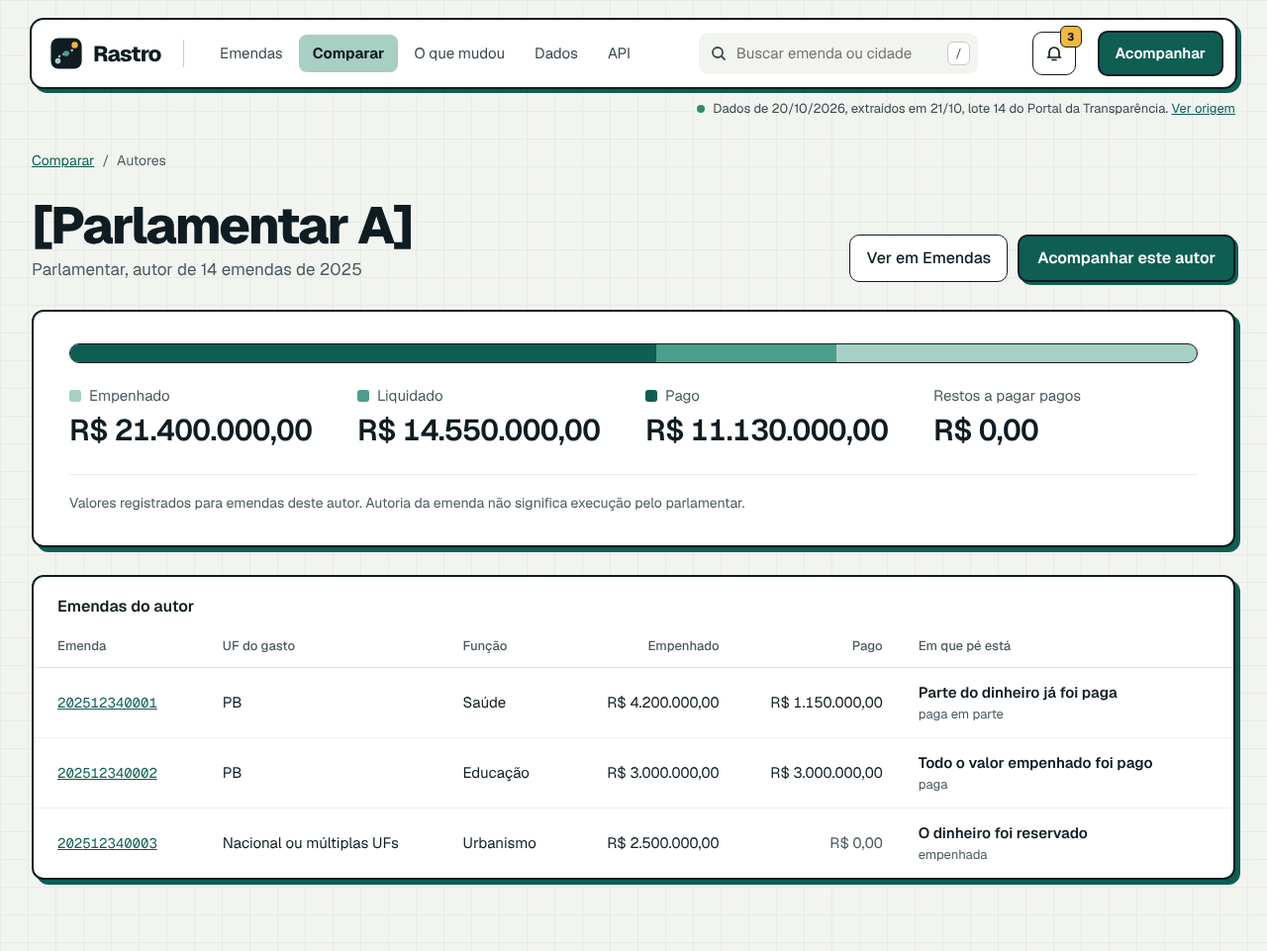
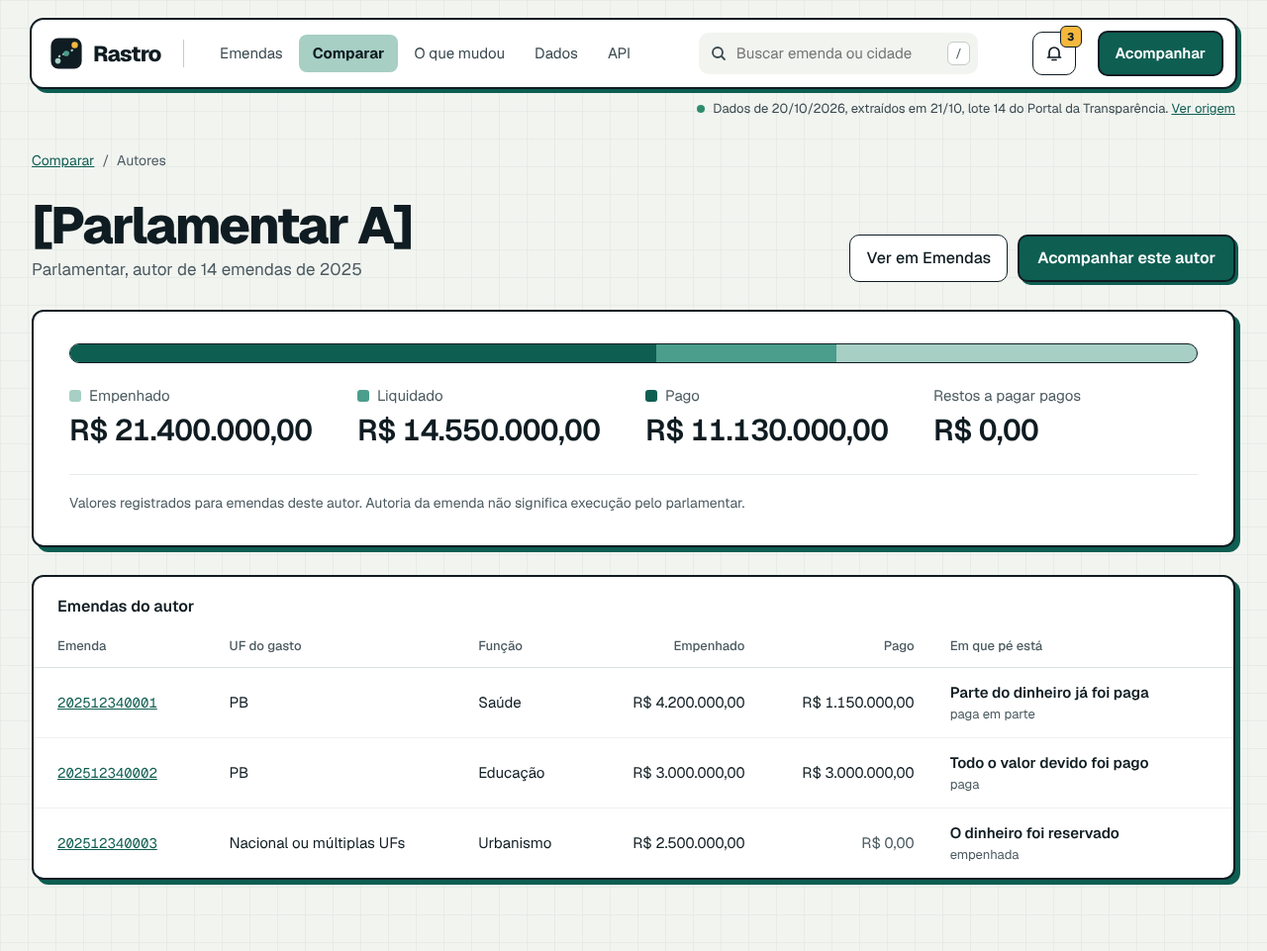
Corrige os achados da revisão independente das mudanças de hoje
- 'paga' passa a dizer 'Todo o valor devido foi pago' (empenhado menos cancelado); ADR-0006 não interpreta a causa da transição
- Números conferidos: 5 545 municípios, R$ 143,3 mi, 37% do total (40% das pagas)
- Assinatura por município só para municípios com gasto previsto; P10 esconde o botão sem gasto
- Contrato 0.3.0; Favorecido expõe municipio_sede e orgao_municipal; nome de campo sem ambiguidade
- REQ-107 a REQ-109 ajustados ao EARS; regra de exibição do termo técnico e do nome do município

Claude-Session: https://claude.ai/code/session_01ETNU5uQUMK4aChQjZRdReK

diff --git a/especificacoes/joao-vitor/arquitetura/requisitos.md b/especificacoes/joao-vitor/arquitetura/requisitos.md
@@ -22,7 +22,7 @@ Convenções usadas no texto:
 | REQ-02 | I | SE uma linha tiver `Código da Emenda` preenchido fora do padrão de 12 dígitos, ENTÃO O SISTEMA DEVE rejeitá-la com o motivo `codigo_invalido` e somá-la em `RejeicaoLote` do lote. | FI-01 §11.3 | `tests/test_cgu.py::test_rejeita_codigo_invalido` | ingestao | O01 |
 | REQ-102 | I | SE uma linha tiver `Código da Emenda` igual a "Sem informação", ENTÃO O SISTEMA DEVE descartá-la com o motivo `codigo_ausente`, contado em `RejeicaoLote` mas fora da taxa do REQ-06, porque o recorte do MVP só inclui emendas com código válido. | FI-01 §10.2; arquivo da CGU (84 857 linhas sem código) | `tests/test_cgu.py::test_codigo_ausente_fora_da_taxa` | ingestao | O01 |
 | REQ-03 | I | SE um valor monetário não estiver no formato publicado pela CGU (dígitos, vírgula e dois decimais, sem separador de milhar, como `250000,00`, com sinal `-` só em `Valor Recebido`), ENTÃO O SISTEMA DEVE rejeitar a linha com o motivo `valor_malformado`. | FI-01 §11.3; arquivo da CGU | `tests/test_cgu.py::test_rejeita_valor_malformado` | ingestao | O01 |
-| REQ-103 | U | O SISTEMA DEVE gravar valores negativos de `Valor Recebido` (estornos publicados pela CGU) como estão, e somá-los com sinal em `soma_valor_recebido_centavos` e na linha agregada de pessoas físicas. | Arquivo da CGU (52 estornos em 2025) | `tests/test_cgu.py::test_estorno_negativo` | ingestao | O01 |
+| REQ-103 | U | O SISTEMA DEVE gravar valores negativos de `Valor Recebido` (estornos publicados pela CGU) como estão, e somá-los com sinal em `soma_valor_recebido_centavos` e na linha agregada de pessoas físicas. | Arquivo da CGU (52 estornos em 2025) | `tests/test_cgu.py::test_estorno_negativo` | ingestao | P10, O01 |
 | REQ-04 | I | SE o pacote da fonte não tiver todas as colunas esperadas pelo contrato de importação, ENTÃO O SISTEMA DEVE marcar o lote como `falhou` com `motivo_falha = formato_alterado` e manter o lote ativo anterior. | FI-01 §10.3 | `tests/test_cgu.py::test_formato_alterado` | ingestao | O01 |
 | REQ-05 | E | QUANDO o operador importar um arquivo cujo `hash_sha256` já pertence a um lote `validado`, `publicado` ou `substituido` da mesma fonte, O SISTEMA DEVE encerrar com código 0 e a mensagem "lote já importado (Lote #n)", sem criar lote nem alterar registros. | AC-2 | `tests/test_store.py::test_reimportacao_nao_duplica` | ingestao | O01 |
 | REQ-06 | I | SE as linhas rejeitadas por `codigo_invalido`, `valor_malformado`, `linha_malformada` ou `emenda_sem_cadastro` passarem de 5% das linhas do recorte (linhas lidas menos `ano_fora_do_recorte` e `codigo_ausente`), ENTÃO O SISTEMA DEVE recusar o lote (estado `recusado`, `motivo_falha = rejeicoes_acima_do_limite`) e manter o lote ativo anterior. | ADR-0001 | `tests/test_store.py::test_recusa_lote_com_muitas_rejeicoes` | ingestao | P09, O01 |
@@ -159,15 +159,15 @@ O brief põe o **município** no centro ("o que foi destinado à cidade dele"), 
 
 ## H · Conferência com o arquivo real da CGU (27/10/2026)
 
-O arquivo oficial de 26/10/2026 mostrou duas coisas que os requisitos anteriores não cobriam. Primeiro, 37% das emendas de 2025 com algum pagamento receberam só parte do empenhado, e o estado `paga` não distinguia isso (ADR-0006, revisão). Segundo, só 474 municípios aparecem como local do gasto, enquanto favorecidos sediados em 5 547 municípios receberam dinheiro de emendas de 2025: a página do município precisava mostrar também o que foi recebido na cidade, sem misturar os dois números (ADR-0010).
+O arquivo oficial de 26/10/2026 mostrou duas coisas que os requisitos anteriores não cobriam. Primeiro, 2 349 emendas de 2025 (37% do total, 40% das que tiveram pagamento) receberam só parte do valor devido, e o estado `paga` não distinguia isso (ADR-0006, revisão). Segundo, só 474 municípios aparecem como local do gasto, enquanto favorecidos sediados em 5 545 municípios receberam dinheiro de emendas de 2025: a página do município precisava mostrar também o que foi recebido na cidade, sem misturar os dois números (ADR-0010).
 
 | ID | Molde | Requisito | Origem | Verificação | Módulo | Telas |
 | :-- | :-: | :-- | :-- | :-- | :-- | :-- |
 | REQ-105 | U | O SISTEMA DEVE derivar o `estado_execucao` de cada emenda, em cada lote, assim: `paga` quando `pago` + `rap_pago` > 0 e ≥ `empenhado` − `rap_cancelado`; `paga_em_parte` quando `pago` + `rap_pago` > 0 e menor que esse valor; `liquidada` quando não há pagamento e `liquidado` > 0; `empenhada` quando só `empenhado` > 0; `sem_execucao` nos demais casos. | ADR-0006; arquivo da CGU | `tests/test_estado.py::test_cinco_estados` | nucleo | P10, P11 |
 | REQ-106 | E | QUANDO uma emenda presente nos dois lotes tiver no lote novo um `estado_execucao` diferente do que tinha no lote ativo anterior, O SISTEMA DEVE gravar uma `MudancaLote` com `tipo = estado_alterado`, `estado_antes` e `estado_depois`. | ADR-0006 | `tests/test_mudancas.py::test_estado_alterado` | nucleo | P08 |
-| REQ-107 | E | QUANDO o importador ler uma linha do arquivo por favorecido com "UF Favorecido" igual à sigla de uma UF e "Município Favorecido" diferente de "Sem informação", O SISTEMA DEVE gravar `Favorecido.municipio_sede` com o identificador derivado do nome pela regra do REQ-66 (`JOÃO PESSOA` → `joao-pessoa`). | ADR-0010; arquivo da CGU | `tests/test_cgu.py::test_municipio_sede` | ingestao | P10 |
-| REQ-108 | I | SE "UF Favorecido" não for a sigla de uma UF (o arquivo traz `-1`) ou "Município Favorecido" for "Sem informação", ENTÃO O SISTEMA DEVE gravar `Favorecido.municipio_sede` nulo, sem rejeitar a linha. (divide REQ-107) | Arquivo da CGU | `tests/test_cgu.py::test_sede_desconhecida` | ingestao | — |
-| REQ-109 | U | O SISTEMA DEVE marcar `Favorecido.orgao_municipal` quando a "Natureza Jurídica" for "Município" ou terminar em "Municipal" (ex. "Fundo Público da Administração Direta Municipal", "Autarquia Municipal"). | ADR-0010; arquivo da CGU | `tests/test_cgu.py::test_orgao_municipal` | ingestao | P10 |
+| REQ-107 | E | QUANDO o importador ler uma linha do arquivo por favorecido de um favorecido que não seja "Pessoa Fisica" (REQ-25), com "UF Favorecido" igual à sigla de uma UF e "Município Favorecido" diferente de "Sem informação", O SISTEMA DEVE gravar `Favorecido.municipio_sede` com o identificador derivado do nome pela regra do REQ-66 (`JOÃO PESSOA` → `joao-pessoa`). | ADR-0010; arquivo da CGU | `tests/test_cgu.py::test_municipio_sede` | ingestao | P10 |
+| REQ-108 | I | SE "UF Favorecido" não for a sigla de uma UF (o arquivo traz `-1`) ou "Município Favorecido" for "Sem informação", ENTÃO O SISTEMA DEVE gravar `Favorecido.municipio_sede` nulo (a linha continua aceita). (divide REQ-107) | Arquivo da CGU | `tests/test_cgu.py::test_sede_desconhecida` | ingestao | — |
+| REQ-109 | E | QUANDO o importador gravar um `Favorecido` cuja "Natureza Jurídica" seja "Município" ou termine em "Municipal" (ex. "Fundo Público da Administração Direta Municipal", "Autarquia Municipal"), O SISTEMA DEVE gravar `Favorecido.orgao_municipal` = 1 (o padrão é 0). | ADR-0010; arquivo da CGU | `tests/test_cgu.py::test_orgao_municipal` | ingestao | P10 |
 | REQ-110 | E | QUANDO o cliente pedir `obter_municipio`, O SISTEMA DEVE devolver em `recebido_na_cidade` a soma de `RegistroFavorecido.valor_recebido_centavos` do lote ativo de favorecidos com `uf` e `municipio_sede` iguais aos da rota, a parte dessa soma recebida por favorecidos com `orgao_municipal`, a quantidade de emendas distintas e a de favorecidos distintos. | ADR-0010 | `tests/test_api.py::test_recebido_na_cidade` | consulta | P10 |
 | REQ-111 | U | O SISTEMA NÃO DEVE somar `recebido_na_cidade` aos valores das emendas com gasto previsto no município, nem exibir os dois num mesmo total, em nenhuma tela ou resposta. (divide REQ-110) | ADR-0010; REQ-21 | `tests/test_api.py::test_recebido_separado` · `e2e/municipio.spec.ts::blocos_separados` | consulta | P10 |
 | REQ-112 | U | O SISTEMA DEVE incluir em `OpcoesFiltro.municipios` todo município que, no lote ativo, seja local do gasto de alguma emenda (`Emenda.municipio_gasto`) ou sede de algum favorecido (`Favorecido.municipio_sede`), com a quantidade de emendas com gasto previsto nele (`quantidade_emendas_gasto`, que pode ser zero). | ADR-0010 | `tests/test_api.py::test_catalogo_de_municipios` | consulta | P01, P02, P10, S01 |

diff --git a/especificacoes/joao-vitor/telas/P10-municipio.md b/especificacoes/joao-vitor/telas/P10-municipio.md
@@ -21,11 +21,11 @@
 
     São cinco linhas, de `sem_execucao` a `paga` (REQ-105). A trilha da identidade visual mostra a proporção de emendas em cada estado, sem valores somados.
   - Valores por etapa, em cartões separados e sem total (`MunicipioDetalhe.valores[]`): `empenhado`, `liquidado`, `pago`, cada um com o rótulo e o link "o que é?".
-  - Destaque para o gestor: "N emendas com valor empenhado ainda não pago" (`MunicipioDetalhe.quantidade_pendentes`, o recorte do REQ-68: as empenhadas, as liquidadas e as pagas em parte), com o botão "Ver as pendentes".
+  - Destaque para o gestor: "N emendas com valor empenhado ainda não pago" (`MunicipioDetalhe.quantidade_pendentes`, o recorte do REQ-68: `pago` + `rap_pago` menor que `empenhado` − `rap_cancelado`; na prática, as empenhadas, as liquidadas e as pagas em parte), com o botão "Ver as pendentes".
   - Lista das emendas do município (`listar_emendas?uf_gasto=&municipio_gasto=&ordenar=codigo&por_pagina=10`): `Emenda.codigo`, `Autor.nome`, `Emenda.funcao_nome`, o estado (`EmendaResumo.estado_texto` e `estado_execucao`) e os valores por etapa.
   - Marca "Tradução v`MunicipioDetalhe.traducao_versao`" com link para P11.
   - Bloco separado "Recebido por favorecidos sediados em <cidade>", com a etiqueta "Outra conta · não se soma às emendas acima" (`MunicipioDetalhe.recebido_na_cidade`, REQ-110, ADR-0010):
-    - "Recebido na cidade" (`valor_recebido_centavos`), com "de N emendas, por M favorecidos" (`quantidade_emendas`, `quantidade_favorecidos`);
+    - "Recebido na cidade" (`valor_recebido_centavos`), com "de N emendas, por M favorecidos" (`quantidade_emendas_com_recebimento`, `quantidade_favorecidos`); um total negativo, possível quando estornos superam os recebimentos (REQ-103), aparece com o sinal de menos e a nota "estornos maiores que os recebimentos";
     - "Desse valor, para a prefeitura e órgãos municipais" (`orgaos_municipais_centavos`);
     - a explicação "Pagamentos de emendas de 2025 a prefeitura, fundos, entidades e empresas com sede na cidade, segundo o arquivo por favorecido da CGU. Inclui emendas de várias cidades, da UF e nacionais." e a nota "Uma empresa sediada aqui pode ter recebido por uma obra em outra cidade. Pessoas físicas não entram nesta conta."
   - Nota fixa: "Gasto previsto: local de aplicação do recurso, segundo a CGU. Emendas para vários municípios, para a UF inteira ou nacionais não aparecem na lista; veja a UF em Emendas." e "Pagamento registrado não comprova a aplicação final."
@@ -39,7 +39,7 @@
   - "Ver as pendentes" → P02 com `?uf_gasto=PB&municipio_gasto=joao-pessoa&pendentes=true` (`listar_emendas`).
   - "Ver as N emendas" → P02 com `?uf_gasto=PB&municipio_gasto=joao-pessoa` (`listar_emendas`).
   - Emenda da lista → P03 (`obter_emenda`).
-  - "Acompanhar este município" → S01 (`listar_opcoes_filtro`) com `filtro_uf_gasto`, `filtro_municipio_gasto` e `condicao = mudanca_estado` pré-preenchidos.
+  - "Acompanhar este município" → S01 (`listar_opcoes_filtro`) com `filtro_uf_gasto`, `filtro_municipio_gasto` e `condicao = mudanca_estado` pré-preenchidos. O botão só aparece quando `MunicipioDetalhe.quantidade_emendas` > 0, porque a assinatura olha só o local do gasto (ADR-0010).
   - "Tradução v`traducao_versao`" → P11 (`listar_traducoes`).
   - "Escolher outra cidade" (estado vazio) → P01 (`obter_status`).
   - Faixa de proveniência → P09 (`listar_lotes`).
@@ -47,7 +47,7 @@
   - "Baixar CSV das emendas" → gera, no navegador, um CSV dos itens já carregados, com colunas de proveniência e de tradução → ação local · sem chamada à API (REQ-74).
 - **Estados:**
   - **carregando:** esqueleto dos estados, dos cartões e da lista; o título com o nome da rota já aparece (REQ-44).
-  - **vazio:** município fora de `OpcoesFiltro.municipios` (404 `nao_encontrado` de `obter_municipio`) → "Nenhuma emenda de 2025 com gasto previsto ou recebimento em <cidade> (UF) nos dados de dd/mm/aaaa", com os links "Ver emendas da UF" (P02) e "Escolher outra cidade" (P01) (REQ-55, REQ-45). Município só com recebimentos (`quantidade_emendas` = 0, caso de 91% dos municípios no arquivo conferido) → no lugar dos estados, dos cartões e da lista, o aviso "Nenhuma emenda de 2025 tem esta cidade como local de aplicação. As emendas que chegaram aqui foram para várias cidades, para a UF ou são nacionais.", com "Ver emendas da UF" (P02); o bloco de recebidos aparece logo abaixo (REQ-112, ADR-0010). Lista de pendentes vazia → "Nenhuma emenda empenhada e ainda não paga nesta cidade" (REQ-45).
+  - **vazio:** município fora de `OpcoesFiltro.municipios` (404 `nao_encontrado` de `obter_municipio`) → "Nenhuma emenda de 2025 com gasto previsto ou recebimento em <cidade> (UF) nos dados de dd/mm/aaaa", com os links "Ver emendas da UF" (P02) e "Escolher outra cidade" (P01) (REQ-55, REQ-45). Município só com recebimentos (`MunicipioDetalhe.quantidade_emendas` = 0, caso de 91% dos municípios no arquivo conferido) → o título diz "Nenhuma emenda de 2025 com gasto previsto nesta cidade"; no lugar dos estados, do destaque do gestor, dos cartões e da lista, e sem o botão "Acompanhar este município", o aviso "Nenhuma emenda de 2025 tem esta cidade como local de aplicação. As emendas que chegaram aqui foram para várias cidades, para a UF ou são nacionais.", com "Ver emendas da UF" (P02); o bloco de recebidos aparece logo abaixo (REQ-112, ADR-0010). Lista de pendentes vazia → "Nenhuma emenda empenhada e ainda não paga nesta cidade" (REQ-45).
   - **erro:** 422 `parametro_invalido` (UF ou identificador de município fora do formato na URL) → "Endereço de cidade inválido", com "Escolher cidade" (REQ-72); 5xx → `X-Request-Id` e "Tentar de novo" (REQ-46).
   - **sucesso:** estados com texto simples, valores por etapa, pendentes, lista e bloco de recebidos (REQ-67, REQ-68, REQ-69, REQ-110).
   - **offline:** "Sem conexão"; nenhum valor anterior exibido como atual (REQ-47).

diff --git a/especificacoes/joao-vitor/arquitetura/adr/0010-mostrar-no-municipio-o-gasto-previsto-e-o-recebido-sem-somar.md b/especificacoes/joao-vitor/arquitetura/adr/0010-mostrar-no-municipio-o-gasto-previsto-e-o-recebido-sem-somar.md
@@ -11,8 +11,8 @@
 - A conferência com o arquivo real da CGU (dados de 26/10/2026, emendas de 2025) mostrou que essa escolha, sozinha, deixa a página vazia para quase todo o país:
   - só 759 das 6 310 emendas trazem um município como local do gasto; as demais são de várias cidades ("Múltiplo"), da UF inteira ou nacionais;
   - por isso, só **474 municípios** aparecem como local do gasto;
-  - favorecidos sediados em **5 547 municípios** receberam dinheiro dessas emendas (arquivo por favorecido, colunas "UF Favorecido" e "Município Favorecido");
-  - em João Pessoa, 17 emendas (R$ 14,2 milhões empenhados) têm a cidade como local do gasto, mas 84 emendas pagaram R$ 143,4 milhões a 53 favorecidos sediados nela (sem contar pessoas físicas), dos quais R$ 37,7 milhões, de 26 emendas, a órgãos municipais (prefeitura e fundos municipais).
+  - favorecidos sediados em **5 545 municípios** receberam dinheiro dessas emendas (arquivo por favorecido, colunas "UF Favorecido" e "Município Favorecido");
+  - em João Pessoa, 17 emendas (R$ 14,2 milhões empenhados) têm a cidade como local do gasto, mas 84 emendas pagaram R$ 143,3 milhões a 53 favorecidos sediados nela (sem contar pessoas físicas), dos quais R$ 37,7 milhões, de 26 emendas, a órgãos municipais (prefeitura e fundos municipais).
 - Os nomes de município dos dois arquivos coincidem: os 474 municípios do local do gasto aparecem, com a mesma grafia e a mesma sigla de UF, no arquivo por favorecido.
 
 ## Opções consideradas
@@ -22,7 +22,7 @@
 2. **Somar o recebido pelos favorecidos da cidade ao gasto previsto.**
    - Prós: um número só. Contras: mistura duas grandezas (valor da emenda por etapa e valor recebido por favorecido, que já são distintas na P03 e na P05), conta duas vezes a mesma emenda e atribui à cidade o pagamento a uma empresa sediada nela por uma obra feita em outro lugar. **Descartada** porque fere o REQ-21 e o REQ-77.
 3. **Dois blocos separados e rotulados:** "Emendas com gasto previsto nesta cidade" (local do gasto, como antes) e "Recebido por favorecidos sediados nesta cidade" (arquivo por favorecido), com a parte recebida por órgãos municipais em destaque e sem total entre os dois.
-   - Prós: a página existe para os 5 547 municípios; cada número diz de onde vem. Contras: dois números que o morador precisa entender como distintos; mais uma coluna derivada na importação.
+   - Prós: a página existe para os 5 545 municípios; cada número diz de onde vem. Contras: dois números que o morador precisa entender como distintos; mais uma coluna derivada na importação.
 
 ## Decisão
 
@@ -31,7 +31,9 @@ Opção 3, porque é a única que mostra o que chegou à cidade sem afirmar onde
 - O favorecido ganha `municipio_sede`, derivado de "Município Favorecido" pela mesma regra de `Emenda.municipio_gasto` (REQ-107), e `orgao_municipal`, derivado da "Natureza Jurídica" (REQ-109). Sem UF válida ou com "Sem informação", a sede fica nula (REQ-108).
 - O catálogo de municípios (`OpcoesFiltro.municipios`) passa a ser a união do local do gasto e da sede dos favorecidos, com `quantidade_emendas_gasto` em cada item (REQ-112). O 404 de `obter_municipio` fica só para município fora desse catálogo (REQ-55).
 - `obter_municipio` devolve `recebido_na_cidade` ao lado dos valores do gasto previsto (REQ-110), e nenhuma tela ou resposta soma os dois (REQ-111).
-- O identificador continua `municipio_gasto` na rota e nos filtros, para não mudar o contrato: é o mesmo texto para os dois usos (`joao-pessoa`).
+- O identificador continua `municipio_gasto` na rota e nos filtros, para não mudar a rota: é o mesmo texto para os dois usos (`joao-pessoa`).
+- O contrato HTTP sobe de 0.2.0 para 0.3.0: há campos obrigatórios novos (`recebido_na_cidade`, `quantidade_emendas_gasto`) e um valor novo no enum de estado (ADR-0006).
+- Assinaturas por município só aceitam municípios com gasto previsto (`quantidade_emendas_gasto` > 0), e a P10 só oferece "Acompanhar este município" nesse caso, porque o filtro olha o local do gasto.
 - Pessoas físicas ficam fora do recebido na cidade, porque o agregado delas não guarda a cidade (ADR-0007). No arquivo conferido, elas somam 0,05% do valor recebido.
 
 ## Consequências
@@ -39,5 +41,5 @@ Opção 3, porque é a única que mostra o que chegou à cidade sem afirmar onde
 - **(+)** A P10 deixa de ser vazia para 91% dos municípios, e o gestor vê quanto a prefeitura e os fundos municipais receberam.
 - **(+)** O REQ-21 continua valendo: o local do gasto nunca vem do favorecido; o favorecido só alimenta o bloco próprio.
 - **(−)** O recebido na cidade inclui pagamentos a empresas sediadas ali por obras feitas em outros municípios. O rótulo e a nota da P10 dizem isso, e o número nunca é chamado de "gasto na cidade".
-- **(−)** As assinaturas por município (`filtro_municipio_gasto`) continuam olhando só o local do gasto: um recebimento novo na cidade não gera alerta. Estender as assinaturas ao recebido é trabalho de uma fatia futura.
+- **(−)** As assinaturas por município (`filtro_municipio_gasto`) continuam olhando só o local do gasto: um recebimento novo na cidade não gera alerta, e municípios só com recebimentos não podem ser assinados. Estender as assinaturas ao recebido é trabalho de uma fatia futura.
 - **(−)** Um favorecido que mude de sede entre lotes fica com a sede do primeiro lote em que apareceu, porque `Favorecido` é uma dimensão só com inserção.

diff --git a/especificacoes/joao-vitor/arquitetura/adr/0006-derivar-estado-de-execucao-da-etapa-mais-avancada.md b/especificacoes/joao-vitor/arquitetura/adr/0006-derivar-estado-de-execucao-da-etapa-mais-avancada.md
@@ -15,7 +15,7 @@ O brief pede que o sistema "avise quem assinou quando alguma coisa muda entre um
    - Prós: nenhuma regra própria. Contras: o campo não existe. **Descartada** porque bloquearia as funcionalidades 6 e 7 do FI-01 (assinar mudança de estado e receber o alerta).
 2. **Qualquer variação de valor** conta como mudança de status.
    - Prós: simples. Contras: alerta a cada centavo e confunde valor com estado. **Descartada** pelo excesso de alertas.
-3. **Estado derivado:** a etapa mais avançada com valor > 0, na ordem `sem_execucao` < `empenhada` < `liquidada` < `paga_em_parte` < `paga`.
+3. **Estado derivado:** a etapa mais avançada com valor > 0 e, havendo pagamento, se ele alcança o valor devido, na ordem `sem_execucao` < `empenhada` < `liquidada` < `paga_em_parte` < `paga`.
    - Prós: testável com dois lotes sintéticos, vocabulário controlado. Contras: cancelamentos e empenhos novos podem fazer o estado recuar.
 
 ## Decisão
@@ -51,9 +51,9 @@ Distribuição do estado derivado no lote conferido, já com a revisão abaixo: 
 
 Na primeira versão desta ADR havia quatro estados, e qualquer pagamento tornava a emenda `paga`. No arquivo real, isso pôs 94% das emendas de 2025 em `paga`, inclusive 2 349 (37%) que receberam só parte do empenhado. O morador leria "Já houve pagamento registrado" sem saber que falta dinheiro.
 
-- **Mudança:** o estado `paga` foi dividido em `paga_em_parte` ("Parte do dinheiro já foi paga") e `paga` ("Todo o valor empenhado foi pago"). A tabela de tradução v1 já nasce com os cinco textos (`../contratos/modelo-de-dados.md`, ADR-0008).
+- **Mudança:** o estado `paga` foi dividido em `paga_em_parte` ("Parte do dinheiro já foi paga") e `paga` ("Todo o valor devido foi pago"; devido = empenhado menos cancelado). A tabela de tradução v1 já nasce com os cinco textos (`../contratos/modelo-de-dados.md`, ADR-0008).
 - **Coerência com o recorte do gestor:** toda emenda `paga_em_parte` está em "empenhado e ainda não pago" (REQ-68), e nenhuma `paga` está. No arquivo conferido, o recorte tem 2 750 emendas: 2 349 `paga_em_parte`, 400 `empenhada` e 1 `liquidada`; a única `empenhada` fora dele teve o empenho todo cancelado.
-- **Efeito nas assinaturas:** a passagem de `paga_em_parte` para `paga` é uma mudança de estado e gera alerta para a condição `mudanca_estado` (REQ-64). É a notícia que o gestor municipal espera: o dinheiro terminou de chegar.
+- **Efeito nas assinaturas:** a passagem de `paga_em_parte` para `paga` é uma mudança de estado e gera alerta para a condição `mudanca_estado` (REQ-64). Ela acontece quando um pagamento novo alcança o valor devido ou quando um cancelamento de restos a pagar reduz o valor devido até o já pago (267 emendas de 2025 têm cancelamento). O Rastro mostra a mudança e os valores por etapa, sem dizer qual das duas causas houve (P08).
 - **Recuo novo:** um empenho a mais numa emenda `paga` a faz voltar a `paga_em_parte`. Esse recuo é mostrado como mudança, como os demais (P08), e conta no critério de 1% acima.
 
 ## Consequências

diff --git a/especificacoes/joao-vitor/telas/diretrizes.md b/especificacoes/joao-vitor/telas/diretrizes.md
@@ -32,7 +32,7 @@ Valem para todas as fichas de tela. As fichas não repetem estas diretrizes; reg
 
 1. **Todo valor tem origem a um toque e data à vista.** Cada valor monetário leva, em no máximo uma interação, à fonte, ao lote, à data de referência, à data de extração e ao link do download oficial; toda tela com dados mostra a faixa de proveniência do cabeçalho ("Dados de dd/mm/aaaa, extraídos em dd/mm, lote n do Portal da Transparência"), com link para P09. *Verificação:* `e2e/proveniencia.spec.ts` percorre todos os valores das telas P (REQ-14, REQ-48).
 2. **Etapas nunca se somam.** Empenhado, liquidado, pago, restos a pagar e recebido por favorecido aparecem sempre com o rótulo próprio, nunca num "total" único. *Verificação:* nenhuma tela tem um rótulo "Total" que agregue etapas (REQ-15, REQ-77).
-3. **Linguagem simples com o termo técnico ao lado.** Todo estado de execução aparece primeiro como o texto da tabela de tradução vigente ("A entrega foi conferida; falta pagar") e logo depois como o termo técnico ("liquidada"), com a versão da tradução a um toque (P11). O texto nunca é escrito no código do painel. *Verificação:* `e2e/traducao.spec.ts` confere que todo estado exibido é igual ao `estado_texto` da API (REQ-69, ADR-0008).
+3. **Linguagem simples com o termo técnico ao lado.** Todo estado de execução aparece primeiro como o texto da tabela de tradução vigente ("A entrega foi conferida; falta pagar") e logo depois como o termo técnico ("liquidada"), com a versão da tradução a um toque (P11). O termo técnico é o valor de `estado_execucao` com espaço no lugar de `_` ("sem execução", "paga em parte"); só a P11 e a D01, que documentam o contrato, mostram o valor do enum como está (`paga_em_parte`). Nomes de município chegam da API como a CGU publica ("JOÃO PESSOA") e o painel os exibe em caixa de título ("João Pessoa"), sem alterar o identificador. O texto nunca é escrito no código do painel. *Verificação:* `e2e/traducao.spec.ts` confere que todo estado exibido é igual ao `estado_texto` da API (REQ-69, ADR-0008).
 4. **Estado honesto.** Sem lote publicado, sem rede ou com erro, a tela diz isso por escrito. Nunca mostra R$ 0,00, tabela vazia ou valor guardado como se fosse atual (REQ-19, REQ-46, REQ-47).
 5. **Nenhuma conclusão que o dado não sustenta.** Onde houver favorecidos, aparece o aviso do REQ-26. Nenhuma tela usa "aplicado em", "investido em" ou "resultado", porque o Rastro não declara o gasto final (FI-01 §5), nem "atrasada" ou "parada", porque o sistema não opina sobre a execução (brief, fora de escopo), e nenhuma tela ranqueia pessoas: autores aparecem em ordem alfabética, sem posição nem "maiores" (REQ-71). *Verificação:* `e2e/linguagem.spec.ts` procura os termos proibidos e confere a ordem alfabética em P06.
 

diff --git a/especificacoes/joao-vitor/arquitetura/contratos/modelo-de-dados.md b/especificacoes/joao-vitor/arquitetura/contratos/modelo-de-dados.md
@@ -258,7 +258,7 @@ Valor acumulado de uma etapa de uma emenda num lote. A sequência entre lotes fo
 | `valor_centavos` | INTEGER | ≥ 0 | Convertido de `250000,00` (REQ-03) |
 | `data_referencia` | DATE | = `LoteImportacao.data_referencia` | |
 
-**Estado de execução** (derivado, ADR-0006, REQ-105): `estado_execucao` é calculado na view `v_emenda_estado` a partir da etapa mais avançada com valor > 0. A ordem é `sem_execucao` < `empenhada` < `liquidada` < `paga_em_parte` < `paga`. Há pagamento quando `pago` + `rap_pago` > 0; ele é total (`paga`) quando alcança `empenhado` − `rap_cancelado` e parcial (`paga_em_parte`) quando fica abaixo.
+**Estado de execução** (derivado, ADR-0006, REQ-105): `estado_execucao` é calculado na view `v_emenda_estado` a partir da etapa mais avançada com valor > 0 e, havendo pagamento, de ele alcançar ou não o valor devido. A ordem é `sem_execucao` < `empenhada` < `liquidada` < `paga_em_parte` < `paga`. Há pagamento quando `pago` + `rap_pago` > 0; ele é total (`paga`) quando alcança `empenhado` − `rap_cancelado` e parcial (`paga_em_parte`) quando fica abaixo.
 
 ### Favorecido
 Dimensão em que só se insere, **só com pessoas jurídicas, entes públicos e outros**. Pessoa física nunca é gravada aqui: o importador agrega os recebimentos de pessoas físicas por emenda e mês (`RegistroFavorecido` com `favorecido_id` nulo, REQ-25, ADR-0007), e o nome e o CPF delas não entram no banco. UNIQUE (`codigo_origem`, `nome_publicavel`).
@@ -374,8 +374,8 @@ Versão 1, carregada na migração inicial:
 | `sem_execucao` | Ainda sem dinheiro reservado | Nenhum valor foi empenhado para esta emenda até a data dos dados. |
 | `empenhada` | O dinheiro foi reservado | Houve empenho: o orçamento separou o valor, mas a entrega ainda não foi conferida. |
 | `liquidada` | A entrega foi conferida; falta pagar | Houve liquidação: o governo reconheceu que o bem ou serviço foi entregue. |
-| `paga_em_parte` | Parte do dinheiro já foi paga | Houve pagamento registrado, mas menor que o valor empenhado. Isso não comprova a aplicação final do recurso. |
-| `paga` | Todo o valor empenhado foi pago | O pagamento registrado alcançou o valor empenhado. Isso não comprova a aplicação final do recurso. |
+| `paga_em_parte` | Parte do dinheiro já foi paga | Houve pagamento registrado, mas menor que o valor devido (empenhado menos cancelado). Isso não comprova a aplicação final do recurso. |
+| `paga` | Todo o valor devido foi pago | O pagamento registrado alcançou o valor empenhado, descontados os cancelamentos. Isso não comprova a aplicação final do recurso. |
 
 Gatilho `BEFORE UPDATE` e `BEFORE DELETE` em `TabelaTraducao` que aborta a operação: versões publicadas são imutáveis no próprio schema.
 

diff --git a/especificacoes/joao-vitor/arquitetura/rastreabilidade.md b/especificacoes/joao-vitor/arquitetura/rastreabilidade.md
@@ -15,7 +15,7 @@ Gerada por `verificar.py` a partir das fichas em `../telas/`, de `requisitos.md`
 | P07 | REQ-14, REQ-15, REQ-19, REQ-22, REQ-28, REQ-29, REQ-44, REQ-45, REQ-46, REQ-47, REQ-55, REQ-60, REQ-69, REQ-71, REQ-72, REQ-79 | `listar_emendas`, `listar_lotes`, `listar_opcoes_filtro`, `obter_agregacoes`, `obter_autor`, `obter_emenda` |
 | P08 | REQ-08, REQ-106, REQ-14, REQ-19, REQ-20, REQ-24, REQ-27, REQ-28, REQ-44, REQ-45, REQ-46, REQ-47, REQ-55, REQ-60, REQ-61, REQ-66, REQ-69, REQ-72, REQ-75 | `listar_lotes`, `listar_mudancas`, `listar_opcoes_filtro`, `obter_emenda`, `obter_linha_do_tempo`, `obter_lote` |
 | P09 | REQ-06, REQ-10, REQ-12, REQ-13, REQ-14, REQ-19, REQ-27, REQ-28, REQ-44, REQ-45, REQ-46, REQ-47, REQ-48, REQ-50, REQ-55, REQ-60, REQ-73, REQ-74, REQ-82 | `listar_lotes`, `listar_mudancas`, `listar_traducoes`, `obter_lote`, `obter_status` |
-| P10 | REQ-105, REQ-107, REQ-109, REQ-110, REQ-111, REQ-112, REQ-14, REQ-19, REQ-20, REQ-21, REQ-28, REQ-44, REQ-45, REQ-46, REQ-47, REQ-48, REQ-55, REQ-60, REQ-66, REQ-67, REQ-68, REQ-69, REQ-70, REQ-71, REQ-72, REQ-74, REQ-77, REQ-88 | `listar_emendas`, `listar_lotes`, `listar_opcoes_filtro`, `listar_traducoes`, `obter_emenda`, `obter_municipio`, `obter_status` |
+| P10 | REQ-103, REQ-105, REQ-107, REQ-109, REQ-110, REQ-111, REQ-112, REQ-14, REQ-19, REQ-20, REQ-21, REQ-28, REQ-44, REQ-45, REQ-46, REQ-47, REQ-48, REQ-55, REQ-60, REQ-66, REQ-67, REQ-68, REQ-69, REQ-70, REQ-71, REQ-72, REQ-74, REQ-77, REQ-88 | `listar_emendas`, `listar_lotes`, `listar_opcoes_filtro`, `listar_traducoes`, `obter_emenda`, `obter_municipio`, `obter_status` |
 | P11 | REQ-105, REQ-19, REQ-28, REQ-44, REQ-46, REQ-47, REQ-55, REQ-69, REQ-70, REQ-72, REQ-74, REQ-86 | `cli:traducao`, `listar_lotes`, `listar_traducoes`, `obter_municipio` |
 | D01 | REQ-14, REQ-16, REQ-17, REQ-18, REQ-19, REQ-25, REQ-28, REQ-30, REQ-44, REQ-46, REQ-47, REQ-65, REQ-69, REQ-72, REQ-74, REQ-84, REQ-89 | `listar_lotes`, `listar_traducoes`, `obter_contrato`, `obter_emenda`, `obter_municipio` |
 | S01 | REQ-112, REQ-19, REQ-20, REQ-31, REQ-32, REQ-33, REQ-34, REQ-37, REQ-41, REQ-42, REQ-44, REQ-46, REQ-47, REQ-60, REQ-62, REQ-63, REQ-64, REQ-66, REQ-74, REQ-80, REQ-87, REQ-89 | `criar_assinatura`, `listar_assinaturas`, `listar_opcoes_filtro`, `obter_status` |
@@ -43,7 +43,7 @@ Gerada por `verificar.py` a partir das fichas em `../telas/`, de `requisitos.md`
 | REQ-100 | ingestao | O01, O02 | — |
 | REQ-101 | consulta | P06 | qualidade |
 | REQ-102 | ingestao | O01 | — |
-| REQ-103 | ingestao | O01 | — |
+| REQ-103 | ingestao | P10, O01 | — |
 | REQ-104 | ingestao | O01 | — |
 | REQ-105 | nucleo | P10, P11 | ADR-0006, ADR-0008 |
 | REQ-106 | nucleo | P08 | ADR-0006 |

diff --git a/especificacoes/joao-vitor/arquitetura/glossario.md b/especificacoes/joao-vitor/arquitetura/glossario.md
@@ -26,7 +26,7 @@ Vocabulário do Rastro (seção 12 do arc42). A primeira coluna é o termo usado
 | Favorecido | `Favorecido` | Pessoa jurídica, ente público ou outro recebedor identificado de pagamento ligado à emenda. Pessoas físicas não são identificadas: ver "Pessoas físicas (favorecidos)". |
 | Pessoas físicas (favorecidos) | `RegistroFavorecido` com `favorecido_id` nulo | Recebimentos de pessoas físicas somados por emenda e mês, com a quantidade de pessoas e sem nome nem CPF (REQ-25, ADR-0007). |
 | Aplicação final | — | Uso concreto do recurso (obra, compra, serviço). **O Rastro não tem esse dado e não afirma nada sobre ele.** |
-| Estado de execução | `estado_execucao` | Etapa mais avançada com valor positivo: sem execução, empenhada, liquidada, paga em parte ou paga (ADR-0006, REQ-105). |
+| Estado de execução | `estado_execucao` | Etapa mais avançada com valor positivo e, havendo pagamento, se ele alcança o valor devido (empenhado menos cancelado): sem execução, empenhada, liquidada, paga em parte ou paga (ADR-0006, REQ-105). |
 | Paga em parte | `paga_em_parte` | Emenda com pagamento registrado menor que `empenhado` − `rap_cancelado`. Está sempre no recorte "empenhado e ainda não pago" (REQ-68). |
 | Estado em linguagem simples | `estado_texto`; `TabelaTraducao.texto_simples` | Frase para o morador que traduz o estado ("A entrega foi conferida; falta pagar"). Vem da versão vigente da tabela de tradução (ADR-0008). |
 | Tabela de tradução | `TabelaTraducao` | Tabela versionada, só com inserção, com um texto simples e uma explicação por estado. Cada resposta diz a versão usada (`traducao_versao`). |

diff --git a/especificacoes/joao-vitor/arquitetura/README.md b/especificacoes/joao-vitor/arquitetura/README.md
@@ -12,7 +12,7 @@ O padrão é o **arc42** (Starke e Hruschka) como índice. Cada seção usa a no
 | §2 Restrições | Stack, execução, dados, prazo | texto | este README |
 | §3 Contexto | Atores, sistemas externos, limites | C4 nível 1 (Mermaid) | [c4-contexto.md](c4-contexto.md) |
 | §5 Blocos de construção | Contêineres e os quatro módulos do grupo | C4 nível 2 (Mermaid) + mapa de módulos | [c4-conteineres.md](c4-conteineres.md) e [abaixo](#mapa-para-os-quatro-módulos-do-grupo) |
-| §9 Decisões | 9 decisões com o porquê | ADR (MADR) | [adr/](adr/) |
+| §9 Decisões | 10 decisões com o porquê | ADR (MADR) | [adr/](adr/) |
 | §10 Qualidade | 5 cenários, um por item do envelope | Bass, Clements e Kazman (6 partes) | [qualidade.md](qualidade.md) |
 | §12 Glossário | Vocabulário do domínio e do sistema | texto | [glossario.md](glossario.md) |
 | — Requisitos | 112 requisitos testáveis, cada um com módulo e telas | EARS | [requisitos.md](requisitos.md) |

diff --git a/especificacoes/joao-vitor/telas/S01-nova-assinatura.md b/especificacoes/joao-vitor/telas/S01-nova-assinatura.md
@@ -23,7 +23,7 @@
   - `Assinatura.filtro_codigo_emenda` · texto de 12 dígitos · opcional.
   - `Assinatura.filtro_autor_codigo` · combobox (`listar_opcoes_filtro.autores`) · opcional.
   - `Assinatura.filtro_uf_gasto` · seleção (UFs + `NM`) · opcional.
-  - `Assinatura.filtro_municipio_gasto` · seleção dependente da UF (`listar_opcoes_filtro.municipios`) · opcional; exige uma UF (REQ-87).
+  - `Assinatura.filtro_municipio_gasto` · seleção dependente da UF (`listar_opcoes_filtro.municipios`, só os itens com `quantidade_emendas_gasto` > 0, porque a assinatura olha o local do gasto; ADR-0010) · opcional; exige uma UF (REQ-87).
   - `Assinatura.filtro_funcao_codigo` · seleção · opcional.
 
     Pelo menos um dos cinco filtros é obrigatório.

diff --git a/especificacoes/joao-vitor/telas/P08-o-que-mudou.md b/especificacoes/joao-vitor/telas/P08-o-que-mudou.md
@@ -21,7 +21,7 @@
 - **Coleta:**
   - `tipo` · seleção (todas, `nova_emenda`, `valor_alterado`, `estado_alterado`) · opcional.
   - `uf_gasto` · seleção · opcional.
-  - `municipio_gasto` · seleção dependente da UF · opcional.
+  - `municipio_gasto` · seleção dependente da UF (`listar_opcoes_filtro.municipios`, só os itens com `quantidade_emendas_gasto` > 0) · opcional.
   - `autor_codigo` · combobox · opcional.
   - `lote_novo_id` · seleção de lotes publicados (`listar_lotes`) · opcional, padrão o lote ativo.
   - `pagina` · inteiro ≥ 1.
